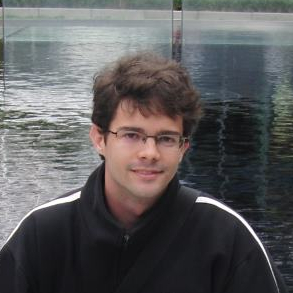
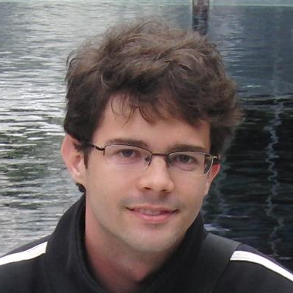
Palestra Guilherme e nova foto daker

diff --git a/index.html b/index.html
@@ -79,7 +79,7 @@
 					</header>
 					<div class="container">
 						<div class="row">
-							<div class="3u">
+							<div class="4u">
 								<section class="box box-style2">
 									<a href="#" class="image image-full">
 									<img src="images/marcel.jpg" alt="" ></a>
@@ -95,7 +95,7 @@
 									
 								</section>
 							</div>
-							<div class="3u">
+							<div class="4u">
 								<section class="box box-style2">
 									<a href="#" class="image image-full">
 									<img src="images/tatiana.jpg" alt="" ></a>
@@ -123,7 +123,7 @@
                                     </div>
 								</section>
 							</div>
-							<div class="3u">
+							<div class="4u">
 								<section class="box box-style2">
 									<a href="#" class="image image-full">
 									<img src="images/renato.png" alt="" ></a>
@@ -137,7 +137,9 @@
                                     </div>
 								</section>
 							</div>
-							<div class="3u">
+                        </div>
+						<div class="row">
+							<div class="4u">
 								<section class="box box-style2">
 									<a href="#" class="image image-full">
 									<img src="images/daker.jpg" alt="" ></a>
@@ -166,6 +168,23 @@
 									
 								</section>
 							</div>
+							<div class="4u">
+								<section class="box box-style2">
+									<a href="#" class="image image-full">
+									<img src="images/guilherme.jpg" alt="" ></a>
+									<h3>Guilherme Medeiros</h3>
+									<p></p>	
+									
+									<hr>
+                                    <h4><a href="#" class="modal"><strong>Palestra:</strong>Do PHP pro Python pro PHP</a></h4>
+
+                                    <div class="talk">
+                                        <h3>Palestra: Do PHP pro Python pro PHP</h3>
+                                        <p>É em uma palestra como essas que jovens programadores passam a ser odiados por xiitas e fanboys, mas alguém tem que fazê-la. Mostrando o melhor e o pior de dois mundos (linguagem e comunidade), Guilherme Medeiros trás sua experiência, casos de sucesso e casos de noite mal dormidas a público.</p>
+                                    </div>
+									
+								</section>
+							</div>
 
 						</div>
 					</div>
@@ -188,16 +207,16 @@
 											<td><strong>08:00</strong></td><td><a href="#palestrantes">Recepção e credenciamento</a></td><td></td>
 										</tr>
 										<tr>
-											<td><strong>09:00</strong></td><td><a href="#palestrantes">Palestra B: </a></td><td>Palestrante</td>
+											<td><strong>09:00</strong></td><td><a href="#palestrantes">Palestra: Do PHP pro Python pro PHP</a></td><td>Guilherme Medeiros</td>
 										</tr>
 										<tr>
-											<td><strong>09:30</strong></td><td><a href="#palestrantes">Functional Pattern Matching</a></td><td>Daker Fernandes Pinheiro</td>
+											<td><strong>09:30</strong></td><td><a href="#palestrantes">Palestra: Functional Pattern Matching</a></td><td>Daker Fernandes Pinheiro</td>
 										</tr>
 										<tr>
 											<td><strong>10:00</strong></td><td>Coffee break</td><td></td>
 										</tr>
 										<tr>
-											<td><strong>10:30</strong></td><td><a href="#palestrantes">Keynote: (a definir) </td><td>Tatiana Al-Chueyr</a></td>
+											<td><strong>10:30</strong></td><td><a href="#palestrantes">Keynote: Cuidando das dependências de seus projetos Python</td><td>Tatiana Al-Chueyr</a></td>
 										</tr>
 										<tr>
 											<td><strong>11:30</strong></td><td>Lighting Talks</td><td></td>
